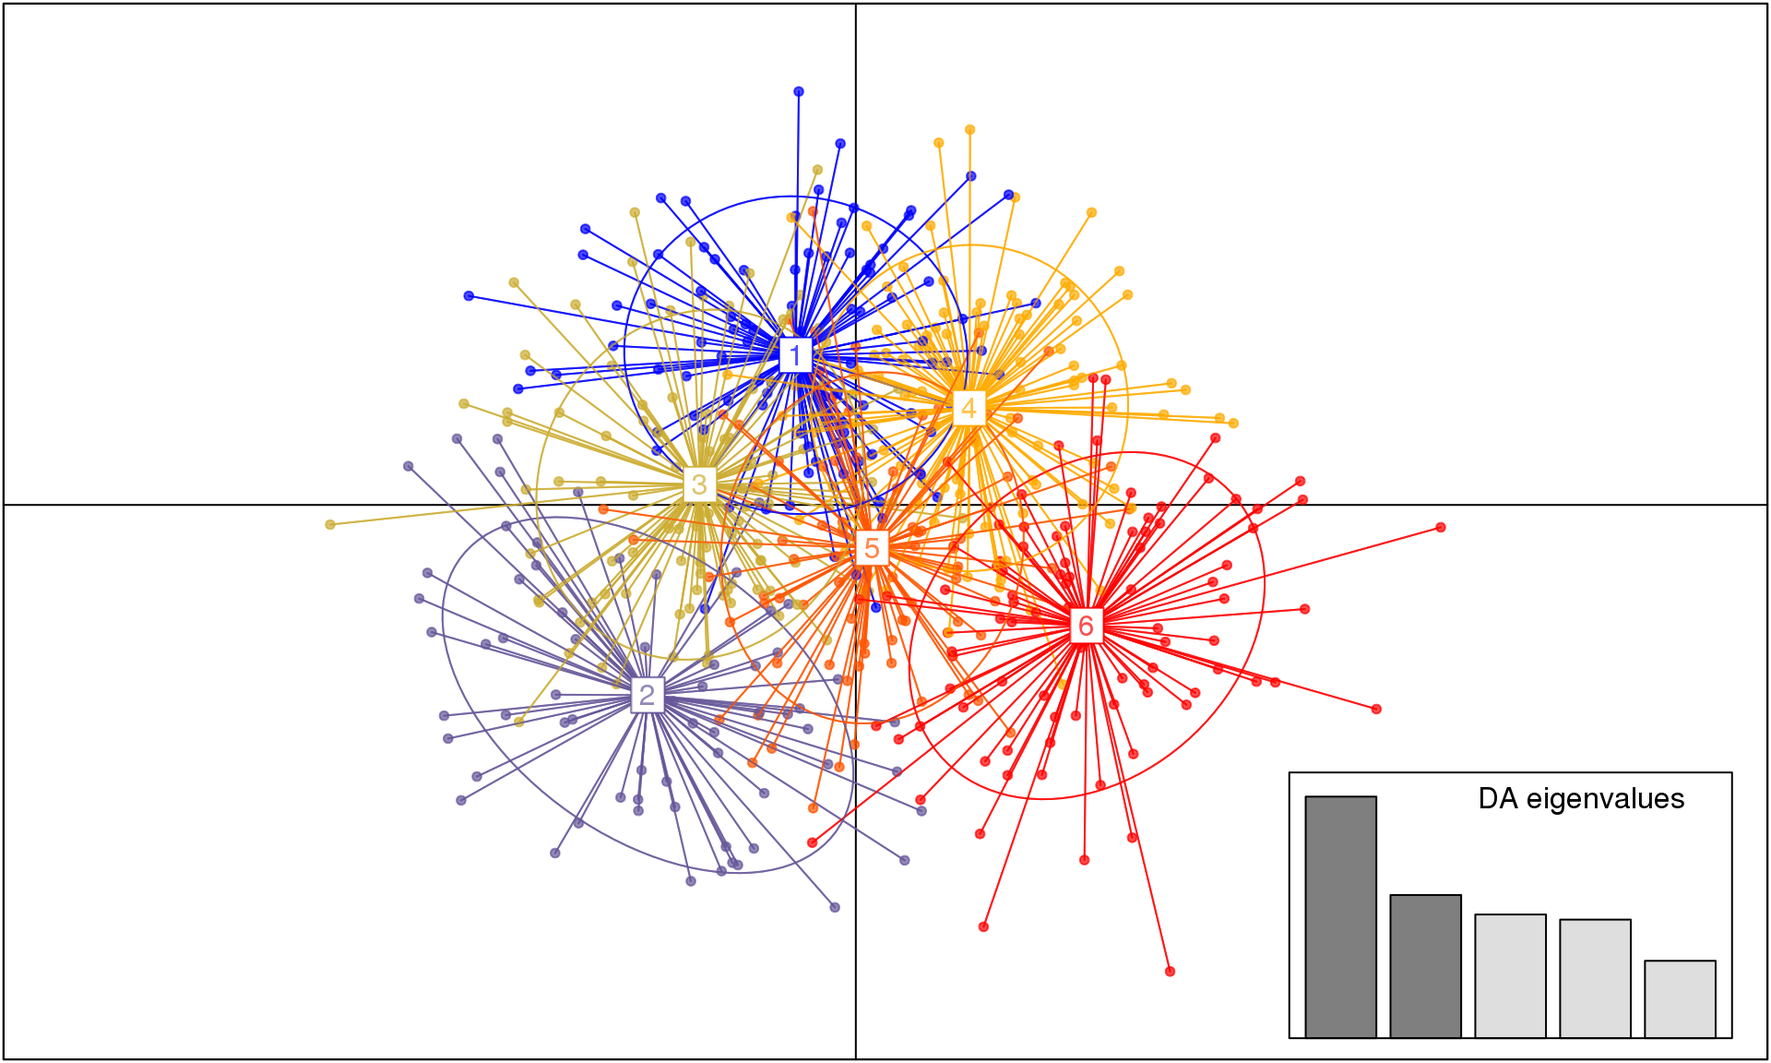
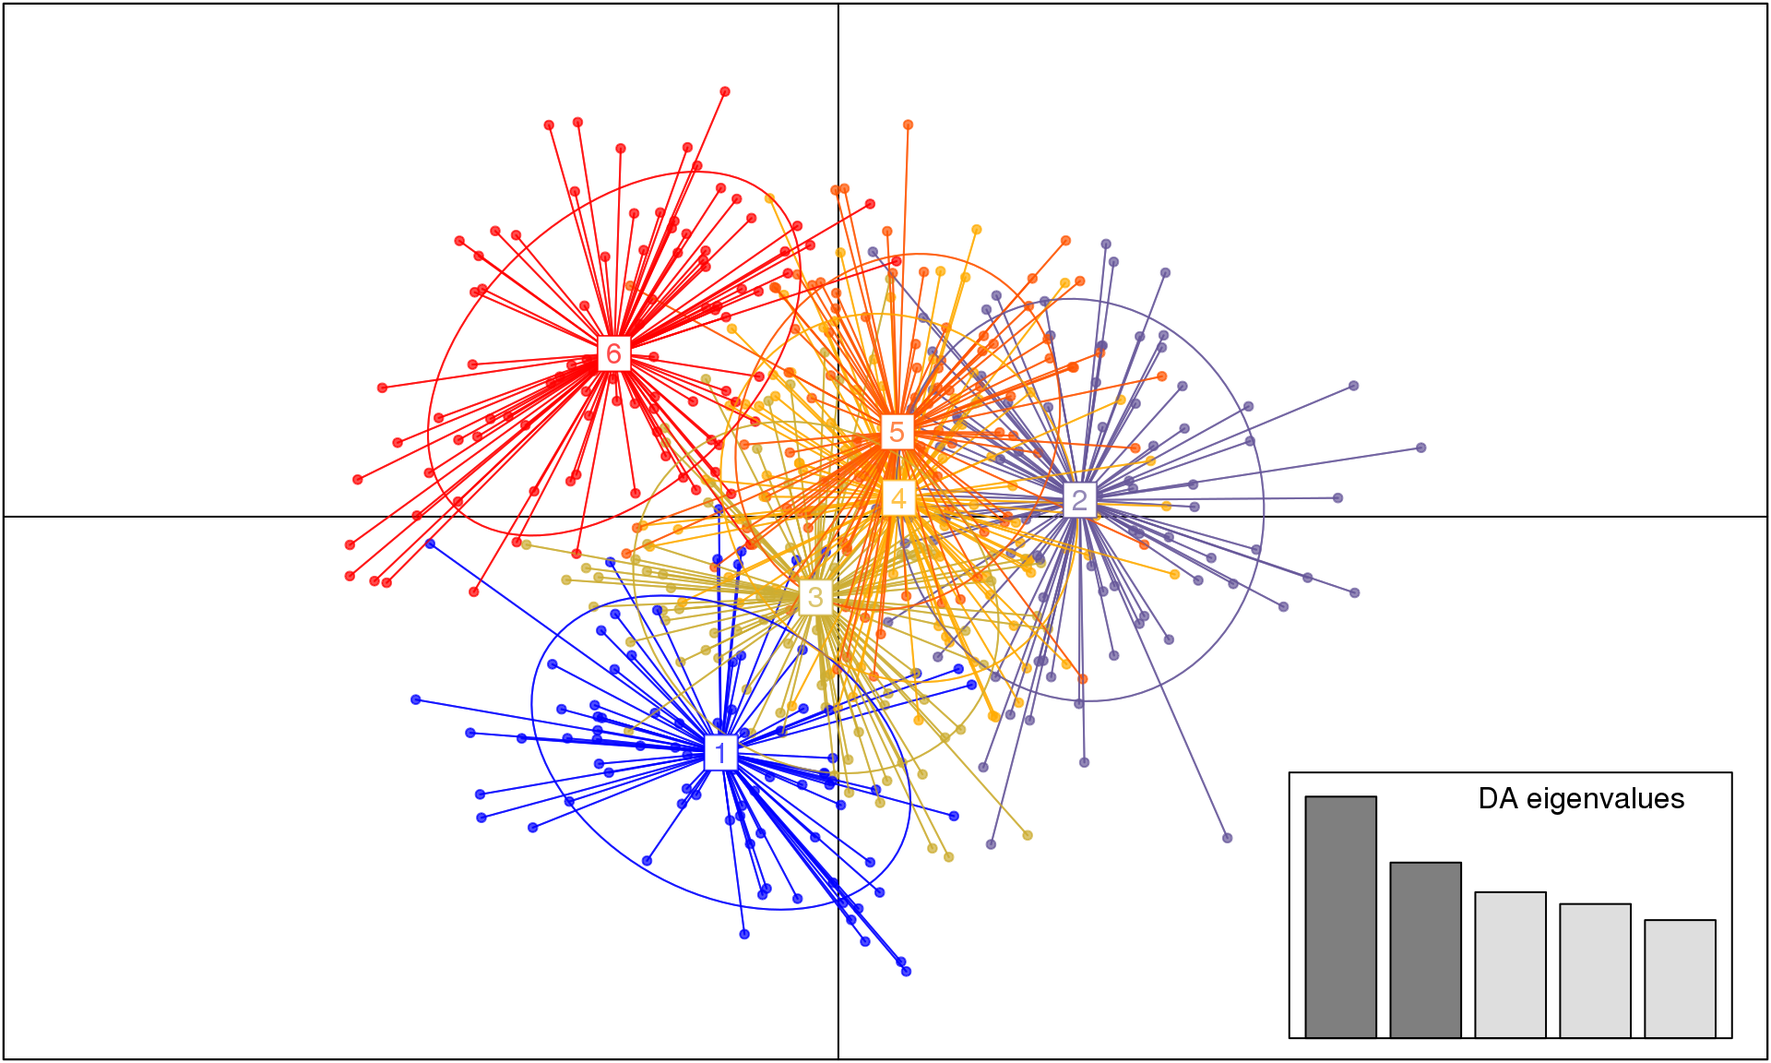
Website rebuild

diff --git a/DifferentiationSNP.html b/DifferentiationSNP.html
@@ -866,31 +866,31 @@ Mydata1</code></pre>
 ## county     0.00000000 0.00000000 0.01829604</code></pre>
 <pre class="sourceCode r"><code class="sourceCode r"><span class="kw">test.g</span>(loci, <span class="dt">level =</span> population) </code></pre>
 <pre><code>## $g.star
-##   [1] 211.5600 183.5575 227.8745 237.1087 261.9337 203.7058 206.5278
-##   [8] 217.8011 211.0959 218.1279 230.8253 256.9984 237.7608 224.5690
-##  [15] 234.7341 205.3638 209.2001 209.8817 228.6059 221.1802 200.8501
-##  [22] 221.2215 181.0578 194.3852 247.6803 217.3840 212.1727 208.9691
-##  [29] 218.1262 238.4243 211.5583 266.4816 215.6031 205.9828 233.9020
-##  [36] 217.6247 183.3367 223.3270 208.9643 229.6523 229.6023 272.1028
-##  [43] 219.8121 235.0096 234.6785 266.7457 217.0283 209.7395 185.4111
-##  [50] 221.3209 201.5381 193.6470 254.9306 217.5996 230.4565 267.4190
-##  [57] 266.8322 216.7721 237.1564 204.2244 190.2384 237.0359 232.0081
-##  [64] 238.5734 217.3147 195.4903 202.3532 240.7912 212.6228 252.5446
-##  [71] 202.9023 231.2165 235.8231 220.1886 243.5041 238.6803 228.9603
-##  [78] 201.2157 202.4144 201.2024 228.3968 230.2246 236.9655 279.6491
-##  [85] 267.4164 252.5921 176.5957 211.9390 196.5474 216.4541 264.8161
-##  [92] 233.7600 232.2037 235.2401 203.7938 207.2251 216.5884 229.9585
-##  [99] 222.9262 378.7654
+##   [1] 196.6471 239.1224 229.9930 213.2340 243.7121 229.7358 213.5847
+##   [8] 196.6060 210.3598 222.8248 217.2390 216.4884 248.6545 221.6508
+##  [15] 219.8948 217.5420 222.0579 235.7474 216.1779 226.4455 233.8657
+##  [22] 186.7956 237.4328 182.3690 250.3784 245.5825 196.8314 230.1338
+##  [29] 211.8218 229.4878 224.2036 223.7410 205.7262 253.0300 213.7332
+##  [36] 227.6357 196.3135 202.1328 253.9226 226.9640 213.9217 228.2901
+##  [43] 257.8361 218.7946 226.3495 217.2432 246.4725 245.3149 234.0238
+##  [50] 218.0405 216.6248 247.2970 219.5359 225.2014 196.2232 174.5115
+##  [57] 256.8725 194.5661 266.4216 204.2229 224.7033 238.9510 244.3202
+##  [64] 204.3865 243.1887 245.1009 212.3793 221.0317 221.2141 233.6187
+##  [71] 202.2309 196.2968 199.4223 225.6655 213.2196 208.0959 228.5240
+##  [78] 190.3900 224.0545 143.9266 215.8178 255.7570 208.1517 228.4225
+##  [85] 197.7325 233.7653 220.1060 208.9577 269.5532 176.5797 232.3376
+##  [92] 207.9661 191.3845 241.3701 222.8906 224.0790 216.8301 208.1278
+##  [99] 198.6869 378.7654
 ## 
 ## $p.val
 ## [1] 0.01</code></pre>
 <pre class="sourceCode r"><code class="sourceCode r"><span class="kw">test.between</span>(loci, <span class="dt">test.lev =</span> population, <span class="dt">rand.unit =</span> county, <span class="dt">nperm =</span> <span class="dv">30</span>) </code></pre>
 <pre><code>## $g.star
-##  [1] 310.1904 283.9921 297.7257 278.0015 235.7881 262.7310 229.6090
-##  [8] 263.1130 235.1934 258.0584 264.6978 272.0075 274.2933 223.8998
-## [15] 244.3480 307.0660 252.7669 301.3387 269.8308 298.1399 250.8874
-## [22] 242.8171 223.5496 293.5298 263.3745 267.8474 274.4900 275.6744
-## [29] 272.7422 378.7654
+##  [1] 233.0814 242.3805 287.5726 276.1985 204.9229 222.0588 334.9951
+##  [8] 218.1755 266.2486 229.8701 192.6483 254.0837 226.0239 277.0829
+## [15] 254.5394 273.2643 283.3099 221.5923 250.8540 248.6661 292.5254
+## [22] 277.4159 255.5408 232.6631 284.7350 262.7759 243.3352 247.4341
+## [29] 248.8417 378.7654
 ## 
 ## $p.val
 ## [1] 0.03333333</code></pre>
@@ -916,115 +916,115 @@ grp &lt;-<span class="st"> </span><span class="kw">find.clusters</span>(Mydata1,
 <pre><code>## [1] &quot;Kstat&quot; &quot;stat&quot;  &quot;grp&quot;   &quot;size&quot;</code></pre>
 <pre class="sourceCode r"><code class="sourceCode r">grp$grp</code></pre>
 <pre><code>##   1066   2040   4004   4005   4018   6009   6013   7033   7056   7069 
-##      2      5      6      5      2      4      6      4      4      4 
+##      6      5      2      5      6      4      2      3      3      4 
 ##   7088   7105   8001   8061   8068   8076   8120   8195   8203   8222 
-##      6      3      6      5      6      5      2      3      2      5 
+##      2      1      2      5      2      5      6      5      6      5 
 ##   8223   8231   8237   8301   8302   8303   8304   8305   8307   8308 
-##      6      6      4      6      5      4      3      6      4      4 
+##      6      2      4      2      5      4      5      2      4      4 
 ##   8309   8310   8313   8314   8316   8317   8318   8319   8320   8323 
-##      5      2      6      4      6      5      4      6      4      2 
+##      5      6      2      4      2      5      5      2      4      6 
 ##   8324   8327   8328   8329   8330   8332   8333   8334   8335   8336 
-##      3      6      6      4      5      3      5      3      2      5 
+##      6      2      2      4      3      5      5      1      6      3 
 ##   8337   8338   8339   8340   8342   8343   8344   8345   8346   8347 
-##      6      6      6      6      2      5      4      2      2      6 
+##      2      2      2      2      6      6      4      6      6      3 
 ##   8349   8350   8351   8352   8353   8354   8355   8356   8357   8358 
-##      4      3      5      5      6      6      3      6      2      4 
+##      4      4      4      5      2      2      4      2      6      4 
 ##   8364   8365   8366   8367   8368   8369   8370   8371   8372   8373 
-##      2      6      6      4      6      6      5      2      2      6 
+##      6      2      2      4      2      3      5      6      6      2 
 ##   8374   8375   8376   8377   8378   8379   8381   8382   8383   8384 
-##      6      6      2      2      5      5      6      6      1      4 
+##      2      3      6      6      5      5      2      2      1      3 
 ##   8385   8386   8387   8388   8389   8390   8391   8392   8393   8395 
-##      6      5      6      6      4      3      1      6      2      4 
+##      3      5      2      2      4      6      3      2      6      3 
 ##   8400   8402   8403   8559   8565   8567   8568   8569   8570   8571 
-##      6      4      4      2      4      4      5      2      3      2 
+##      2      3      3      6      4      4      5      6      2      6 
 ##   8572   8573   8574   8601   8602   8603   8604   8606   8607   8608 
-##      1      6      5      2      3      1      5      4      2      4 
+##      1      2      5      6      2      3      5      3      6      4 
 ##   8609   8610   8611   8613   8615   8616   8618   8619   8620   8621 
-##      5      4      6      5      4      5      4      5      4      4 
+##      5      3      2      5      3      5      2      3      4      4 
 ##   8622   8624   8626   8628   8629   8630   8631   8633   8634   8635 
-##      5      1      5      6      4      3      2      6      3      5 
+##      5      3      3      2      2      5      6      6      1      5 
 ##   8636   8637   8638   8639   8640   8641   8642   8643   8644   8645 
-##      3      5      4      4      1      4      5      4      5      1 
+##      1      5      4      4      3      4      5      4      5      3 
 ##   8646   8647   8648   8651   8652   8653   8654   8655   8656   8657 
-##      3      6      4      3      4      5      6      4      6      4 
+##      6      3      4      4      4      5      2      3      2      3 
 ##   8658   8659   8660   8661   8662   8663   8664   8667   8669   8670 
-##      5      5      4      4      1      2      1      3      3      6 
+##      6      5      4      4      3      6      3      5      5      2 
 ##   8671   8672   8673   8674   8675   8676   8677   8678   8679   8680 
-##      5      5      4      4      5      3      5      4      4      6 
+##      5      3      3      4      5      6      5      4      3      4 
 ##   8683   8685   8686   8687   8688   8689   8691   8692   8693   8694 
-##      4      3      3      4      3      5      2      1      4      4 
+##      3      3      1      3      4      5      6      6      6      4 
 ##   8695   8696   8697   8698   8699   8700   8701   8702   8703   8704 
-##      4      4      4      1      4      4      3      2      4      5 
+##      3      4      3      3      4      3      6      6      4      5 
 ##   8705   8706   9003   9006   9015  10005  11010  11503  11532  12008 
-##      1      6      5      5      4      5      3      6      1      4 
+##      3      2      5      5      3      5      6      2      3      4 
 ##  12012  14010  14015  22212  68087  68088  68090  68095  68130  68131 
-##      2      5      3      6      2      3      3      1      3      2 
+##      6      3      4      2      6      6      1      1      1      6 
 ##  68133  68134  68135   105A   108A   109B   110B   112C   115B   117B 
-##      5      2      3      1      2      6      3      3      5      6 
+##      5      6      5      3      6      2      6      5      5      2 
 ##   118B    11A   120A   121C   127A   128A   131B   132B   136C   138A 
-##      1      5      4      4      1      4      1      2      3      6 
+##      3      5      4      4      3      3      3      6      5      2 
 ##   139B   140B   141A   142B   144C   145A   146C   147A   149B   150A 
-##      1      1      4      1      1      6      3      4      1      6 
+##      1      1      4      1      3      2      6      4      1      2 
 ##   151A   152B   153B   154C   155B   156C   157A   158B    15A   162A 
-##      3      6      1      1      1      4      1      5      2      4 
+##      5      2      1      3      3      4      3      5      6      4 
 ##   166B    16A   171A   173A   174A    17C   188A   189A   190A   191A 
-##      2      3      4      4      2      5      3      4      6      1 
+##      6      5      4      4      6      5      6      3      2      3 
 ##    19A   205B    20A   212A   213A   217C   219A    21A   220A   224A 
-##      6      1      1      6      3      3      3      1      3      4 
+##      3      1      3      2      5      1      4      1      5      4 
 ##   226C   227C   234B   235A   238A    23A   245B   248A   250C   253A 
-##      2      6      4      1      1      1      4      5      6      5 
+##      6      2      4      3      3      3      4      3      2      5 
 ##   254C   257B   258A   260B   262A   264C   265A   268A   269A   270C 
-##      3      5      1      1      3      5      2      6      3      3 
+##      5      5      1      1      1      5      6      2      6      1 
 ##   271A   272B   275A   276B   277A    27A   281A   282B   283C   285C 
-##      4      6      1      3      5      5      3      1      2      5 
+##      4      2      3      4      5      5      1      1      6      5 
 ##   286B   287C   288C   289A   290C   291C   292C   298B   299C   300C 
-##      6      3      3      4      3      5      3      2      5      1 
+##      2      1      1      4      6      5      1      4      5      1 
 ##   302A   303C   305A   306A   307A   311A   316B   320C   322A   323B 
-##      1      4      3      3      4      3      1      1      6      1 
+##      1      4      5      4      4      1      3      1      2      1 
 ##   324A   326A   327A   328B   329B    32A   330A   331B   332C   334A 
-##      3      5      5      1      1      1      4      1      1      1 
+##      6      3      5      1      3      1      3      3      3      3 
 ##   335A   336A   339B   340A   341C   346A   349B    34A   351A   353C 
-##      5      4      1      3      4      2      5      1      1      6 
+##      5      4      1      1      4      6      5      1      3      2 
 ##   355A    35A   360B   361B   362C   365B   366A   368B   369A    36A 
-##      5      3      3      3      6      6      3      4      1      3 
+##      5      4      1      1      2      2      5      4      3      1 
 ##   370C   371B   372A   373B   375A   377B   378B   379B   382A   383C 
-##      1      5      3      5      4      2      4      4      2      3 
+##      1      6      6      5      3      1      4      4      6      1 
 ##   384A   385B   387A   388B   389A   390B   391C   392A   393C   395A 
-##      4      1      2      3      5      5      1      5      1      6 
+##      4      1      6      6      5      2      3      5      1      3 
 ##   397A   398C   400C   407A   408C   409B   410A   411C   412C   414A 
-##      1      2      4      4      4      4      2      5      4      1 
+##      1      6      4      4      4      4      6      5      4      3 
 ##   415A   416B   417A   418A   419B    41C   420B   421A   422B   423C 
-##      4      3      6      5      3      6      2      6      3      5 
+##      4      5      2      5      5      2      6      2      6      5 
 ##   424B   425B   426B   427C   428C   429B    42A   430B   431B   433B 
-##      4      3      1      2      4      5      4      3      5      2 
+##      4      4      2      6      4      5      4      3      5      6 
 ##   434B   435C   436A    43B   441C   442C   443C   448C   449A   450B 
-##      6      1      1      6      4      4      3      3      1      2 
+##      3      1      1      2      4      4      1      5      3      6 
 ##   451B   459A   461A   463A   469C   470A   471B   481A   483A   484A 
-##      2      1      1      3      5      1      6      3      2      3 
+##      4      1      3      5      5      3      1      6      6      5 
 ##   485A   486B   487C   489B    48B   492C   493A   496B   498B   499A 
-##      6      4      3      1      1      6      4      3      3      3 
+##      2      5      6      1      1      2      4      4      6      1 
 ##    49A   500B   501A   502C   514A   515A   519B   520B   526A   527B 
-##      1      4      1      4      1      3      1      5      4      3 
+##      1      4      3      3      1      6      1      5      4      2 
 ##   528C    52A   531A   532A   533A   534A   535C   536A   539A    53C 
-##      1      3      5      2      1      3      5      3      1      1 
+##      2      1      5      6      3      4      5      1      3      1 
 ##   540A   541A   542C   543C   544B   545A   546C   548C   549A    54C 
-##      6      1      2      1      3      1      3      2      1      5 
+##      2      1      6      1      4      1      1      6      1      5 
 ##   551C   552A   553B   554A   555C   556A   557B   558A   559A    55A 
-##      6      2      1      6      1      1      1      1      3      4 
+##      2      6      1      2      1      1      1      1      1      3 
 ##   561A   562A   563A   564B   565C   566B   568B   570A   571A   572C 
-##      5      3      1      1      6      6      5      3      3      4 
+##      5      1      1      3      2      2      5      6      1      5 
 ##   573C   574B   576A   577B   578B   579A    57A   580A   581C   600A 
-##      1      5      4      1      4      6      5      6      3      3 
+##      3      5      3      3      3      2      5      2      6      1 
 ##   601A   603A   605B   606B    60A   612C   613A   618A   619A    61A 
-##      5      4      3      2      6      3      2      1      4      2 
+##      5      4      5      6      2      4      6      1      4      6 
 ##   620C   621A   633B   634C   635A   636C   637B    63B   644B   645A 
-##      2      2      2      3      3      2      2      6      2      5 
+##      6      4      6      4      6      6      6      2      6      5 
 ##   646A    66A    67C    69A    73B    77B     7A    86C    89C    90C 
-##      3      4      1      3      6      6      3      5      5      3 
+##      6      3      1      5      2      2      1      5      5      1 
 ##    92A    93C    94C    97B    98A    99C     9A CRO108 CRO120 CRO121 
-##      1      1      1      6      6      1      3      4      4      4 
+##      1      3      3      2      2      3      1      3      4      4 
 ## CRO133 DF3364  FM406  FM417  FM428  FM442  FM445  S4PT6   SH13    SH7 
-##      6      3      4      5      2      6      1      3      4      6 
+##      2      4      4      5      6      2      3      1      4      6 
 ## Levels: 1 2 3 4 5 6</code></pre>
 <p>The K means procedure detected 5 groups. We will use this number of group in the discriminant analysis (function <code>dapc</code>). On your own dataset, you need to spend more time to estimate the number of cluster.</p>
 <pre class="sourceCode r"><code class="sourceCode r">dapc1 &lt;-<span class="st"> </span><span class="kw">dapc</span>(Mydata1, grp$grp, <span class="dt">n.pca =</span> <span class="dv">20</span>, <span class="dt">n.da =</span> <span class="dv">6</span>) 

diff --git a/StartSNP.html b/StartSNP.html
@@ -380,17 +380,17 @@ Mydata3 &lt;-<span class="st"> </span><span class="kw">genind2loci</span>(Mydata
 ## 
 ## $fis.ci
 ##         ll      hl
-## 1  -0.0161  0.3164
-## 2  -0.0493  0.0438
-## 3   0.0110  0.0971
-## 4  -0.0485  0.0939
-## 5  -0.0366  0.0705
-## 6  -0.5127  0.1957
-## 7  -0.2421  0.2019
-## 8  -0.2212 -0.0533
-## 9  -0.1630  0.3361
-## 10  0.0329  0.3200
-## 11 -0.4117 -0.1311</code></pre>
+## 1  -0.0605  0.3058
+## 2  -0.0578  0.0484
+## 3   0.0034  0.0804
+## 4  -0.0369  0.0865
+## 5  -0.0491  0.0734
+## 6  -0.6502  0.2023
+## 7  -0.2456  0.1553
+## 8  -0.2122 -0.0446
+## 9  -0.1397  0.3103
+## 10  0.0261  0.3717
+## 11 -0.4348 -0.1573</code></pre>
 <pre class="sourceCode r"><code class="sourceCode r">x &lt;-<span class="st"> </span><span class="kw">indpca</span>(Mydata2) 
 <span class="kw">plot</span>(x, <span class="dt">cex=</span><span class="fl">0.7</span>)</code></pre>
 <p><img src="StartSNP_files/figure-html/basic_statistics-1.png" title="" alt="" width="960" /></p>
@@ -400,17 +400,17 @@ Mydata3 &lt;-<span class="st"> </span><span class="kw">genind2loci</span>(Mydata
 <p>We used the pegas package.</p>
 <pre class="sourceCode r"><code class="sourceCode r"><span class="kw">hw.test</span>(Mydata3, <span class="dt">B =</span> <span class="dv">1000</span>)</code></pre>
 <pre><code>##                      chi^2 df Pr(chi^2 &gt;) Pr.exact
-## X0.10037.01.257 0.75465490  1  0.38500645    0.450
-## X0.10040.02.394 0.16628227  1  0.68343723    0.734
-## X0.10044.01.392 2.96053195  1  0.08531987    0.107
-## X0.10048.01.60  6.39076800  1  0.01147154    0.008
-## X0.10051.02.166 1.12035389  1  0.28984227    0.283
-## X0.10054.01.402 1.54582494  1  0.21375285    0.224
-## X0.10067.03.111 0.04868128  1  0.82537403    0.556
-## X0.10079.02.168 0.01579313  1  0.89999259    0.605
+## X0.10037.01.257 0.75465490  1  0.38500645    0.476
+## X0.10040.02.394 0.16628227  1  0.68343723    0.722
+## X0.10044.01.392 2.96053195  1  0.08531987    0.093
+## X0.10048.01.60  6.39076800  1  0.01147154    0.014
+## X0.10051.02.166 1.12035389  1  0.28984227    0.287
+## X0.10054.01.402 1.54582494  1  0.21375285    0.232
+## X0.10067.03.111 0.04868128  1  0.82537403    0.548
+## X0.10079.02.168 0.01579313  1  0.89999259    0.607
 ## X0.10112.01.169 0.41126025  1  0.52133054    1.000
-## X0.10113.01.119 0.74248768  1  0.38886515    0.436
-## X0.10116.01.165 1.87098306  1  0.17136253    0.263</code></pre>
+## X0.10113.01.119 0.74248768  1  0.38886515    0.422
+## X0.10116.01.165 1.87098306  1  0.17136253    0.232</code></pre>
 <p>We get for each locus a test of significance of the null hypothesis: <span class="math">\(H_0\)</span> the locus is in HW equilibrium in the population. All but one locus are in HW equilibrium.</p>
 </div>
 </div>

diff --git a/CONTRIBUTING.html b/CONTRIBUTING.html
@@ -212,6 +212,8 @@ img {
 <li>Clone the repository to your machine using <code>git clone https://github.com/YourAccount/popgenInfo.git</code> on the command line. Note: the https protocol is easier to follow, but it’s possible to use ssh as well (<a href="https://help.github.com/articles/fork-a-repo/#step-2-create-a-local-clone-of-your-fork">details here</a>). Follow <a href="https://help.github.com/articles/fork-a-repo/#step-3-configure-git-to-sync-your-fork-with-the-original-spoon-knife-repository">these instructions</a> to keep your fork up to date with the master repository.</li>
 <li>Then, from the command line, move to the popgenInfo directory using <code>cd popgenInfo</code>.</li>
 <li>Create a branch for your changes using <code>git checkout -b Your_branch_name</code>.</li>
+<li>If you are on windows or macintosh, you can open Rstudio by double-clicking on the <code>popgenInfo.Rproj</code> file in your file browser. If you are on linux, you can open it by typing <code>rstudio popgenInfo.Rproj</code>.</li>
+<li>If you haven’t done so, create your vignette from the <a href="https://github.com/nescent/popgenInfo/tree/master/TEMPLATE.Rmd"><code>TEMPLATE.Rmd</code></a> file and move any associated data to the <strong>data/</strong> directory.</li>
 <li>Move your vignette in <code>.Rmd</code> format into the <strong>use/</strong> directory.</li>
 <li>Add the file to git using <code>git add use/yourfilename.Rmd</code>.</li>
 <li>Then commit this using <code>git commit</code> and add some short text describing what your file is.</li>

diff --git a/package_basics.html b/package_basics.html
@@ -346,7 +346,7 @@ img {
 ## [1] &quot;~/R-dev&quot;
 ## 
 ## $devtools.revdep.libpath
-## [1] &quot;/tmp/RtmpEAPUuw/R-lib&quot;</code></pre>
+## [1] &quot;/tmp/RtmpjBzGqr/R-lib&quot;</code></pre>
 <p>After looking at the documentation, we know that we want to change the values <code>devtools.desc.author</code>, <code>devtools.desc.license</code>, <code>devtools.name</code>. We will also add a “Maintainer” field to the DESCRIPTION file (tells users who to blame). The others don’t matter for now. We can add them in thusly (Note, I am using my name; you should obviously use your own):</p>
 <pre class="sourceCode r"><code class="sourceCode r">authors_at_r &lt;-<span class="st"> </span><span class="kw">paste0</span>(
   <span class="st">&quot;&#39;&quot;</span>,
@@ -385,7 +385,7 @@ img {
 ## [1] &quot;~/R-dev&quot;
 ## 
 ## $devtools.revdep.libpath
-## [1] &quot;/tmp/RtmpEAPUuw/R-lib&quot;</code></pre>
+## [1] &quot;/tmp/RtmpjBzGqr/R-lib&quot;</code></pre>
 <blockquote>
 <p>It is much easier to edit the DESCRIPTION file by hand afterward. This simply demonstrates how you can get started.</p>
 </blockquote>

diff --git a/SummarySequenceData.html b/SummarySequenceData.html
@@ -344,10 +344,10 @@ myData1_HWE <span class="co"># p-values lower than 0.05 indicate deviations from
 <pre><code>## 
 ## Estimates for each locus
 ## Locus    Mean     95% CI
-## L1   0.2102  (0.1625-0.2827)
+## L1   0.2104  (0.1577-0.2753)
 ## 
 ## Global Estimate based on average heterozygosity
-## 0.2102   (0.1625-0.2827)</code></pre>
+## 0.2104   (0.1577-0.2753)</code></pre>
 <pre class="sourceCode r"><code class="sourceCode r"><span class="kw">summarise_bootstrap</span>(myData1_bs, Gst_Hedrick) <span class="co"># estimate Hedrick&#39;s Gst and whether or not it is significant</span></code></pre>
 <pre><code>## 
 ## Estimates for each locus
